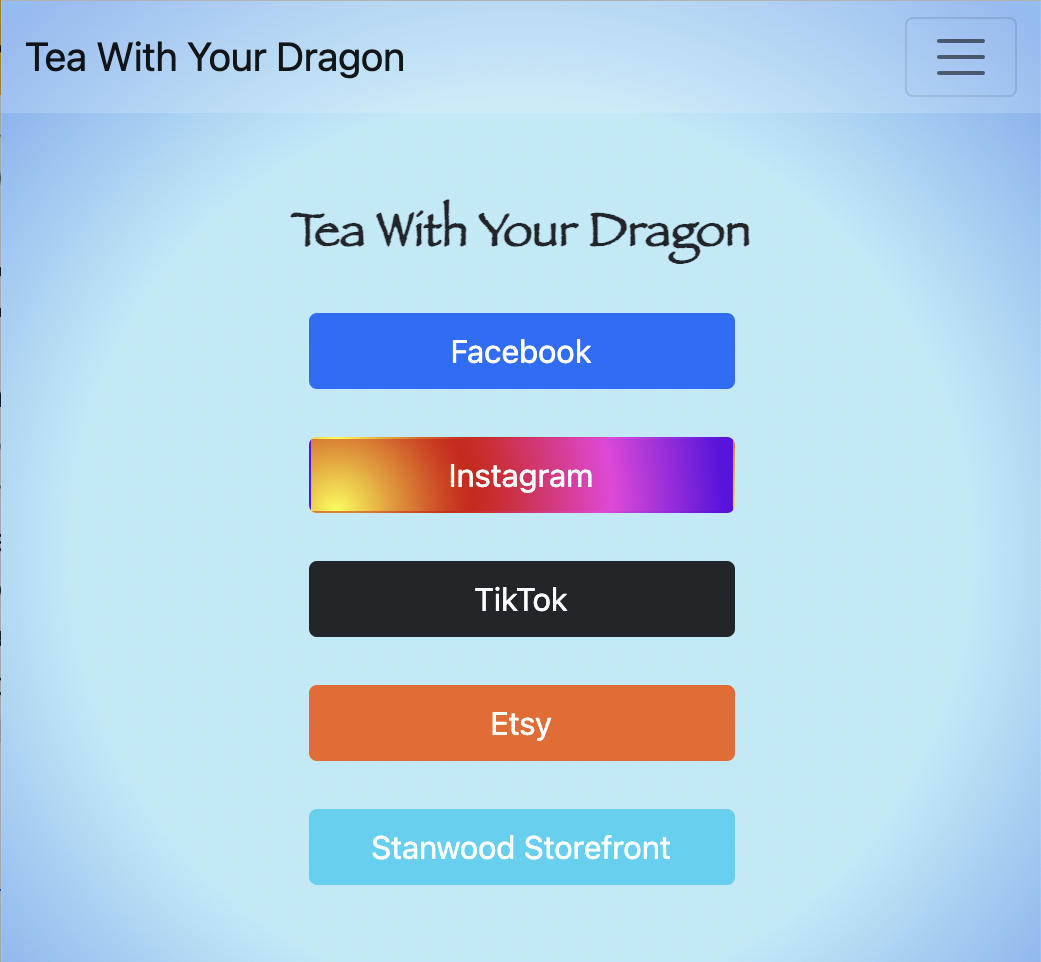
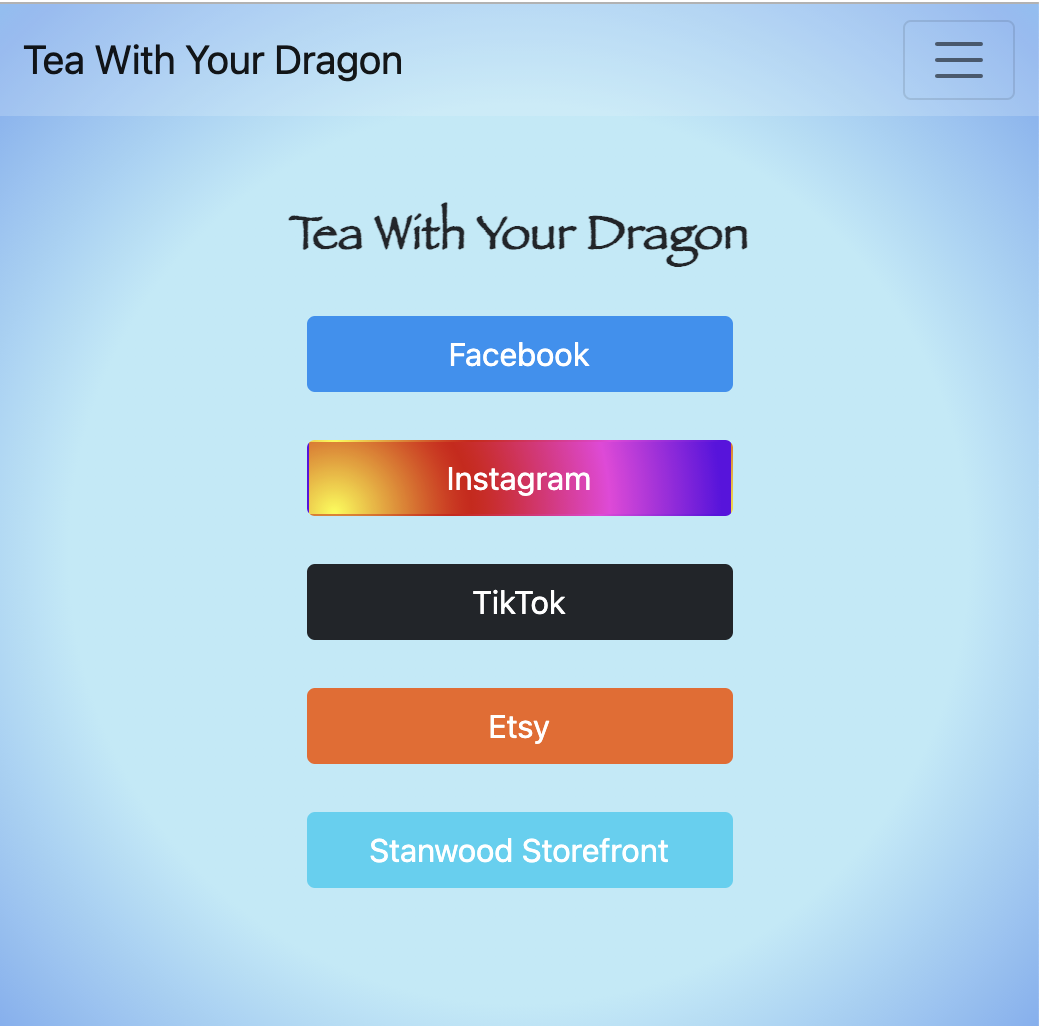
Added layout and email about.html

Changed region(s): [[0.2772, 0.1871, 0.7392, 0.9356], [0.0, 0.0, 1.0, 0.0936], [0.8932, 0.0624, 0.924, 0.0936]]

diff --git a/about.html b/about.html
@@ -62,7 +62,7 @@
     </nav>
     <h1 class="text-center">About me</h1>
     <h3 class="text-center">Front-end developer from Nooksack, USA</h3>
-    <div class="about-paragraphs text-center px-5">
+    <div class="text-center px-5 m-5">
       <p>
         Lorem ipsum dolor sit amet, consectetur adipisicing elit. Numquam
         aperiam provident tempora? Cumque adipisci, non dolorem quia, odit qui
@@ -70,5 +70,21 @@
         blanditiis harum.
       </p>
     </div>
-  </body>
+    <div class="container">
+        <div class="row">
+            <div class="col-sm-6">
+                <img src="/images/weatherApp.png" alt="Yoga standing pose" class="img-fluid p-2 shadow rounded">
+            </div>
+            <div class="col-sm-6">
+                <img src="/images/websiteApp.png" alt="Weather forecast" class="img-fluid p-2 shadow rounded">
+            </div>
+        </div>
+        <div id="contact" class="my-4">
+            <h2 class="text-center">📮 Contact me</h2>
+            <a href="mailto:nolte.jessicac@gmail.com" class="d-flex justify-content-center text-decoration-none fs-3 email-link" target="Email Jessica Nolte">
+        Nolte.JessicaC@gmail.com
+      </a>
+        </div>
+</body>
+
 </html>

diff --git a/styles/style.css b/styles/style.css
@@ -23,3 +23,7 @@ h3 {
         font-size: 28px;
     }
 }
+
+.email-link:hover {
+    text-decoration: underline !important;
+}
